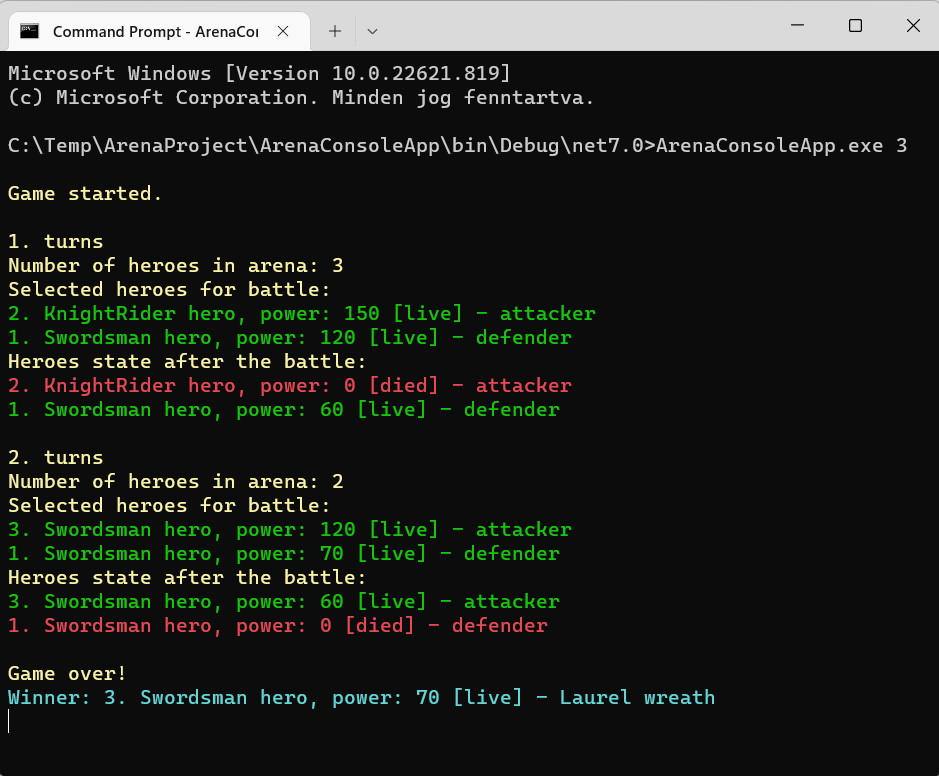
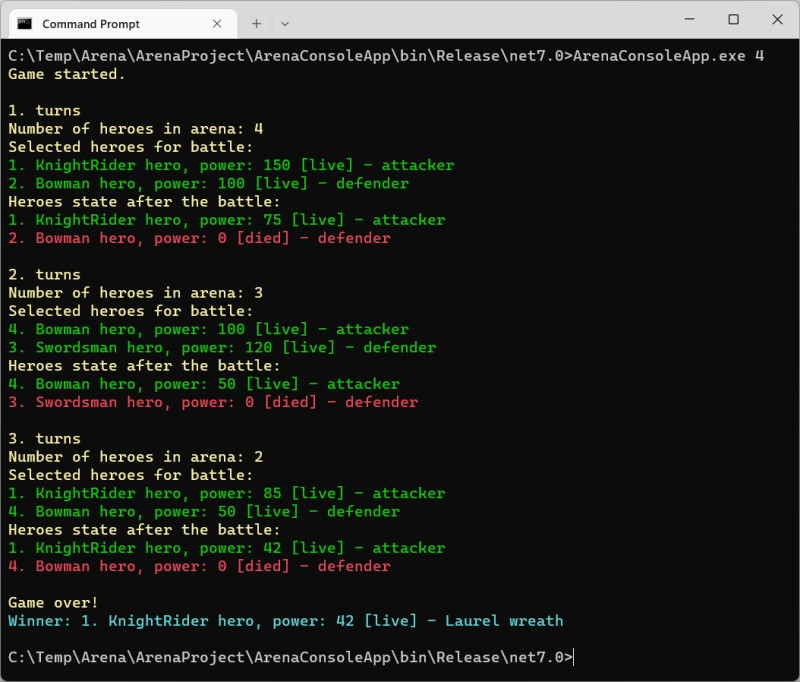
fixed game rule bug

Changed region(s): [[0.0, 0.0, 1.0, 0.9238], [0.0, 0.9545, 0.7188, 1.0], [0.9688, 0.9853, 1.0, 1.0]]

diff --git a/ArenaProject/ArenaTest/Engine/BattleTests.cs b/ArenaProject/ArenaTest/Engine/BattleTests.cs
@@ -2,6 +2,7 @@
 using ArenaEngine.Model;
 using ArenaEngine.Service;
 using Microsoft.VisualStudio.TestTools.UnitTesting;
+using System.Diagnostics.Metrics;
 
 namespace ArenaTest.Engine;
 
@@ -84,6 +85,27 @@ public class BattleTests
         defender = battleSystem.CreateHero(defender.HeroType);
 
         battleSystem.PlayBattle(attacker, defender);
+    }
+
+    /// <summary> rest heroes in hero list </summary>
+    [TestMethod]
+    public void RestHeroes()
+    {
+        var gameConfig = new GameConfigDTO();
+        IBattleSystem battleSystem = new LimeBattleSystem(gameConfig);
+        
+        var heroList = new List<HeroDTO>()
+        {
+            battleSystem.CreateHero(HeroTypes.KnightRider),
+            battleSystem.CreateHero(HeroTypes.Bowman)
+        };
+
+        heroList[0].Power = 90; //KnightRider
+        battleSystem.RestHeroes(ref heroList);
+        
+        Assert.IsTrue(heroList?.Count == 2);
+        Assert.IsTrue(heroList[0].Power == 90 + gameConfig.RestPowerIncrement); //increased current power
+        Assert.IsTrue(heroList[1].Power == gameConfig.BowmanMaxPower); //maximum power
     }
 
     /// <summary>
@@ -179,25 +201,39 @@ public class BattleTests
     }
 
     [TestMethod]
-    public void GoRestAfterPlayBattle()
+    public void GoBackAfterPlayBattle()
     {
         var gameConfig = new GameConfigDTO();
         IBattleSystem battleSystem = new LimeBattleSystem(gameConfig);
 
+        //after go back same power
         var heroList = new List<HeroDTO>();
         var knightRider = battleSystem.CreateHero(HeroTypes.KnightRider);
         var swordsman = battleSystem.CreateHero(HeroTypes.Swordsman);
-
-        battleSystem.GoRestHeroesAfterBattle(new List<HeroDTO> { knightRider, swordsman }, ref heroList);
+        battleSystem.GoBackHeroesAfterBattle(new List<HeroDTO> { knightRider, swordsman }, ref heroList);
         Assert.IsTrue(heroList?.Count == 2);
-        Assert.IsTrue(heroList[0].Power == gameConfig.KnightRiderMaxPower);
-        Assert.IsTrue(heroList[1].Power == gameConfig.SwordsmanMaxPower);
+        Assert.IsTrue(heroList[0].Power == gameConfig.KnightRiderMaxPower); //maximum power
+        Assert.IsTrue(heroList[1].Power == gameConfig.SwordsmanMaxPower); //maximum power
 
-        heroList.Clear();
+        //after go back same power (with lover power than maximum)
+        heroList = new List<HeroDTO>();
+        knightRider = battleSystem.CreateHero(HeroTypes.KnightRider);
+        swordsman = battleSystem.CreateHero(HeroTypes.Swordsman);
+        knightRider.Power = 100;
+        swordsman.Power = 80;
+        battleSystem.GoBackHeroesAfterBattle(new List<HeroDTO> { knightRider, swordsman }, ref heroList);
+        Assert.IsTrue(knightRider.Power == 100); //high power is same after go back
+        Assert.IsTrue(swordsman.Power == 80); //high power is same after go back
+
+        //after go back, low power hero died and didn't go back
+        heroList = new List<HeroDTO>();
+        knightRider = battleSystem.CreateHero(HeroTypes.KnightRider);
+        swordsman = battleSystem.CreateHero(HeroTypes.Swordsman);
         knightRider.Power = 10;
-        battleSystem.GoRestHeroesAfterBattle(new List<HeroDTO> { knightRider, swordsman }, ref heroList);
-        Assert.IsTrue(heroList?.Count == 1);
-        Assert.IsTrue(knightRider.Power == 10);
-        Assert.IsTrue(heroList[0].Power == gameConfig.SwordsmanMaxPower);
+        battleSystem.GoBackHeroesAfterBattle(new List<HeroDTO> { knightRider, swordsman }, ref heroList);
+        Assert.IsTrue(heroList?.Count == 1); //one hero went back
+        Assert.IsTrue(heroList[0].Id == swordsman.Id); //high power hero is alive and go back
+        Assert.IsTrue(swordsman.Power == gameConfig.SwordsmanMaxPower); //and he hes same maximum power
+        Assert.IsTrue(knightRider.Power == 10 && knightRider.IsAlive == false); //low power hero died
     }
 }

diff --git a/ArenaProject/ArenaEngine/Service/LimeBattleSystem.cs b/ArenaProject/ArenaEngine/Service/LimeBattleSystem.cs
@@ -62,6 +62,28 @@ public class LimeBattleSystem : IBattleSystem
         return result;
     }
 
+    public void ValidateHero(HeroDTO hero)
+    {
+        short maxPower;
+
+        switch (hero.HeroType)
+        {
+            case HeroTypes.KnightRider: maxPower = gameConfig.KnightRiderMaxPower; break;
+            case HeroTypes.Swordsman: maxPower = gameConfig.SwordsmanMaxPower; break;
+            case HeroTypes.Bowman: maxPower = gameConfig.BowmanMaxPower; break;
+
+            default: throw new ArgumentOutOfRangeException();
+        }
+
+        //maximize the power
+        if (hero.Power > maxPower)
+            hero.Power = maxPower;
+
+        //the power is less than quarter of the initial/maximum power then hero die
+        if (hero.Power < maxPower / 4)
+            hero.IsAlive = false;
+    }
+
     public List<HeroDTO> SelectHeroesForBattle(ref List<HeroDTO>? heroList)
     {
         var result = new List<HeroDTO>();
@@ -83,20 +105,14 @@ public class LimeBattleSystem : IBattleSystem
         return result;
     }
 
-    public void GoRestHeroesAfterBattle(List<HeroDTO> battleHeroes, ref List<HeroDTO>? heroList)
+    public void RestHeroes(ref List<HeroDTO>? heroList)
     {
-        foreach (var hero in battleHeroes)
-        {
-            ValidateHero(hero);
-
-            if (hero.IsAlive)
+        if (heroList != null)
+            foreach (var hero in heroList)
             {
                 hero.Power += gameConfig.RestPowerIncrement; //rest time, increase power
                 ValidateHero(hero); //maximize power
-                    
-                heroList?.Add(hero);
             }
-        }
     }
 
     public void PlayBattle(HeroDTO attacker, HeroDTO defender)
@@ -143,25 +159,17 @@ public class LimeBattleSystem : IBattleSystem
         DecrementPowerAfterBattle();
     }
 
-    public void ValidateHero(HeroDTO hero)
+    public void GoBackHeroesAfterBattle(List<HeroDTO> battleHeroes, ref List<HeroDTO>? heroList)
     {
-        short maxPower;
-
-        switch (hero.HeroType)
+        foreach (var hero in battleHeroes)
         {
-            case HeroTypes.KnightRider: maxPower = gameConfig.KnightRiderMaxPower; break;
-            case HeroTypes.Swordsman: maxPower = gameConfig.SwordsmanMaxPower; break;
-            case HeroTypes.Bowman: maxPower = gameConfig.BowmanMaxPower; break;
+            ValidateHero(hero);
 
-            default: throw new ArgumentOutOfRangeException();
+            if (hero.IsAlive)
+            {
+                ValidateHero(hero); //maximize power
+                heroList?.Add(hero);
+            }
         }
-
-        //maximize the power
-        if (hero.Power > maxPower)
-            hero.Power = maxPower;
-
-        //the power is less than quarter of the initial/maximum power then hero die
-        if (hero.Power < maxPower / 4)
-            hero.IsAlive = false;
     }
 }

diff --git a/ArenaProject/ArenaEngine/Service/IBattleSystem.cs b/ArenaProject/ArenaEngine/Service/IBattleSystem.cs
@@ -16,13 +16,17 @@ public interface IBattleSystem
 
     List<HeroDTO>? CreateRandomHeroList(uint listSize);
 
+    /// <summary> maximize his power and change live state according to power </summary>
+    void ValidateHero(HeroDTO hero);
+
     /// <summary> take out heroes from heroList and add them in return list </summary>
     List<HeroDTO> SelectHeroesForBattle(ref List<HeroDTO>? heroList);
 
-    /// <summary> Heroes go rest afther the battle </summary>
-    /// <param name="battleHeroes"> two heroes in the battle </param>
-    /// <param name="heroList"> list of all resting heroes </param>
-    void GoRestHeroesAfterBattle(List<HeroDTO> battleHeroes, ref List<HeroDTO>? heroList);
+    /// <summary>
+    /// rest all heroes in list
+    /// </summary>
+    /// <param name="heroList"> resting heroes </param>
+    void RestHeroes(ref List<HeroDTO>? heroList);
 
     /// <summary>
     /// 1v1 battle, changing power and live state according to rules
@@ -30,6 +34,8 @@ public interface IBattleSystem
     /// </summary>
     void PlayBattle(HeroDTO attacker, HeroDTO defender);
 
-    /// <summary> maximize his power and change live state according to power </summary>
-    void ValidateHero(HeroDTO hero);
+    /// <summary> Heroes go back afther the battle </summary>
+    /// <param name="battleHeroes"> two heroes in the battle </param>
+    /// <param name="heroList"> list of all other heroes </param>
+    void GoBackHeroesAfterBattle(List<HeroDTO> battleHeroes, ref List<HeroDTO>? heroList);
 }

diff --git a/ArenaProject/ArenaEngine/Controller/LimeArena.cs b/ArenaProject/ArenaEngine/Controller/LimeArena.cs
@@ -61,15 +61,21 @@ public class LimeArena
             {
                 WriteLog("Number of heroes in arena: " + heroList.Count);
 
+                //Select 2 heroes for battle
                 var battleHeroes = battleSystem.SelectHeroesForBattle(ref heroList);
                 battleHeroes[0].Description = "attacker";
                 battleHeroes[1].Description = "defender";
                 WriteHeroesStatsLog("Selected heroes for battle:", battleHeroes);
 
+                //other heroes are resting
+                battleSystem.RestHeroes(ref heroList);
+
+                //play 1v1 battle
                 battleSystem.PlayBattle(battleHeroes[0], battleHeroes[1]);
                 WriteHeroesStatsLog("Heroes state after the battle:", battleHeroes);
 
-                battleSystem.GoRestHeroesAfterBattle(battleHeroes, ref heroList);
+                //go back
+                battleSystem.GoBackHeroesAfterBattle(battleHeroes, ref heroList);
             }
         } while (heroList is {Count: > 1});
 
